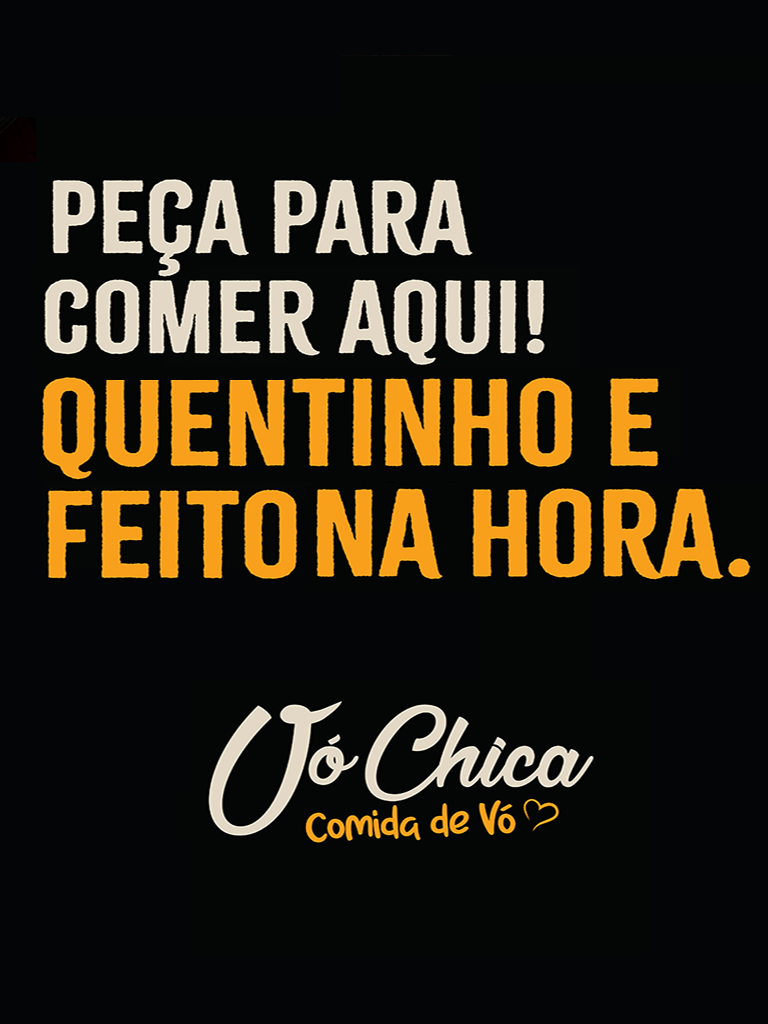
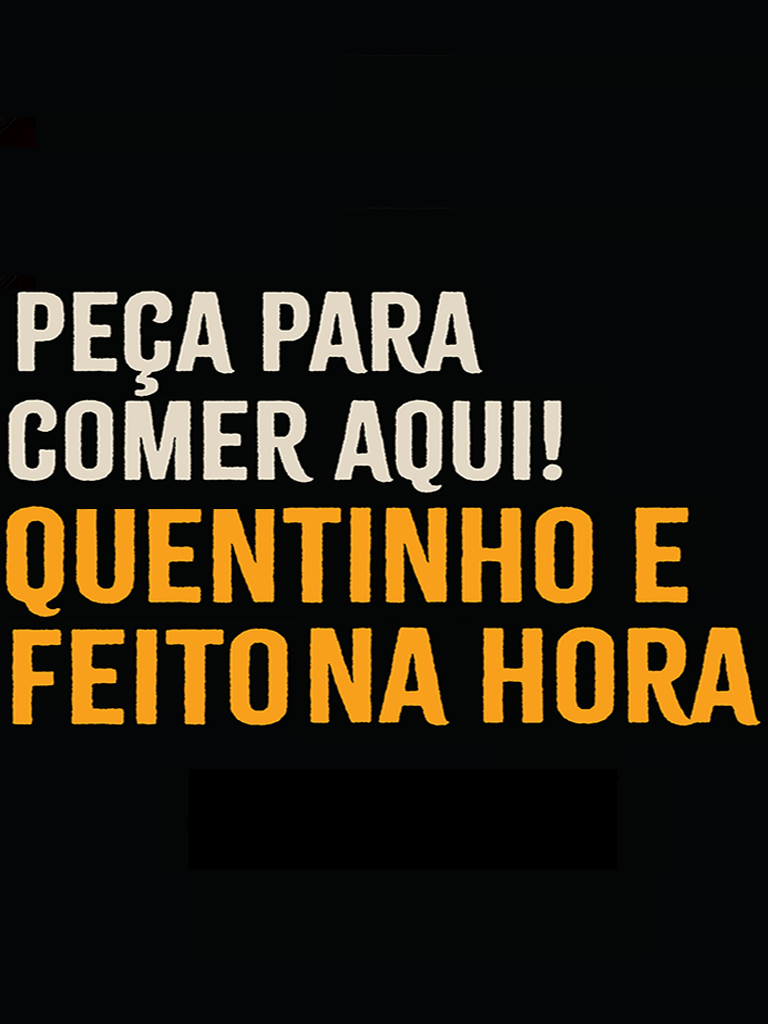
Footer design

Changed region(s): [[0.0, 0.1562, 1.0, 0.8438]]

diff --git a/style.css b/style.css
@@ -62,7 +62,7 @@ nav ul li a {
 }
 
 nav ul li a:hover {
-    color: #ffffff;
+    color: #e2d8c5;
 }
 
 nav ul li a::after {
@@ -127,7 +127,7 @@ nav.show ul.grid {
 }
 .toggle:hover {
     transition: 0.1s;
-	color:#ffffff;
+	color:#e2d8c5;
 }
 
 nav .icon-close {
@@ -150,15 +150,16 @@ h1 {
 }
 
 #home {
+    margin-top: -4rem;
     border-bottom: 1px solid #e1e1e1;
     border-radius: 1px;
     overflow: hidden;
-    background-image: url("img/banner1_pc.png");
-    background-color: #cccccc;
+    background-image: url("img/banner14.png");
+    background-color: #000000;
     background-repeat: no-repeat;
 }
 .text {
-    margin-top: 15rem;
+    margin-top: 20rem;
     padding: 0 20px 0 20px;
     visibility: hidden;
     text-align: center;
@@ -187,14 +188,14 @@ h1 {
     align-items: center;
     display: inline-flex;
     background-color: #4d2f29;
-    color: #ffffff;
+    color: #e2d8c5;
     font-size: 1.3rem;
     cursor: pointer;
 }
 .button:hover {
     transition: 0.3s;
-	color:#ffffff;
-    border:2px solid #ffffff;
+	color:#e2d8c5;
+    border:2px solid #e2d8c5;
 }
 .button:active {
 	position: relative;
@@ -207,7 +208,6 @@ h1 {
 
 /* ==== FOOTER ============================== */
 .logo-footer {
-    height: 50px;
     margin-bottom: 1rem;
 }
 footer {
@@ -215,25 +215,26 @@ footer {
     border-width: 0.2rem 0 0 0;
     border-style:solid;
     border-color: #272727a2;
-    background-color: #fdb913;
+    background-color: #000000;
     text-align: center;
 }
 
 h2 {
-    font-size: 1.2rem;
+    color: #fdb913;
+    font-size: 1.4rem;
     margin-bottom: 0.5rem;
 }
 
 
 .footer-nav li a {
-    color: #000000;
+    color: #fdb913;
     -webkit-font-smoothing: auto;
-    font: 800 1.1rem "Open Sans";
+    font: 800 1.4rem "Open Sans";
 }
 
 .footer-nav li a:hover {
-    transition: 0.1s;
-	color:#ffffff;
+    transition: 0.3s;
+	color:#e2d8c5;
 }
 
 .footer-nav li {
@@ -248,7 +249,7 @@ h2 {
 .share {
     justify-content: center;
     padding-top: 1rem;
-    border-top: 2px solid;
+    border-top: 2px solid #e2d8c5;
 }
 
 /* smartphones, portrait iPhone, portrait 480x320 phones (Android) */
@@ -275,7 +276,6 @@ h2 {
 
 
      .logo-footer {
-         height: 90px;
         margin-bottom: 1rem;
     }
 
@@ -318,7 +318,7 @@ h2 {
     }
     #home .text p {
         padding: 0 100px 0 100px;
-        color: #ffffff;
+        color: #e2d8c5;
         font-size: 1.4rem;
         margin-bottom: 2rem;
     }
@@ -330,8 +330,8 @@ h2 {
         align-items: center;
         display: inline-flex;
         background-color: #4d2f29;
-        color: #ffffff;
-        font-size: 2rem;5
+        color: #e2d8c5;
+        font-size: 2rem;
         cursor: pointer;
     }
     
@@ -359,4 +359,59 @@ h2 {
 @media (min-width:1025px) {  }
 
 /* hi-res laptops and desktops */
-@media (min-width:1281px) {  }
+@media (min-width:1281px) { 
+
+    ul.grid {
+        margin-right: 20rem;
+    
+    }
+
+    .second-image img {
+        margin-top: 100px;
+    }
+
+    #header {
+        position: relative;
+        background-color: #0000009a;
+    }
+
+    nav.container {
+        padding: 0 20px 0 20px;
+        max-width: 1800px;
+        margin-left: auto;
+        margin-right: auto;
+    }
+
+    nav .icon-menu {
+        display: none;
+    }
+    nav {
+        justify-content: space-around;
+        position: static;
+    }
+
+    nav .menu {
+        top: 0px;
+        transition: 0.4s;
+        opacity: 1;
+        visibility: visible;
+    }
+
+     nav .menu ul {
+         gap: 5rem;
+         display: flex;
+
+     }
+
+     nav ul li a::after {
+        content: "";
+        width: 0%;
+        height: 3px;
+        background: #e2d8c5;
+        position: absolute;
+        left: 0;
+        bottom: -0.1rem;
+        transition: width 0.3s;
+    } 
+
+ }

diff --git a/index.html b/index.html
@@ -23,10 +23,10 @@
       <a class="logo" href="#"><img src="img/logobranco.png" alt="VoChica" ></a>
       <div class="menu">
         <ul class="grid">
-          <li><a href="#home">Inicio</a></li>
-          <li><a href="https://goo.gl/maps/WoA6wfDSjGREYATZ6">Localização</a></li>
-          <li><a href="https://v-chica.goomer.app/menu">Cardápio</a></li>
-          <li><a href="https://api.whatsapp.com/send?phone=47992283668&text=Olá, tudo bem?">Contato</a></li>
+          <li class="hlist"><a href="#home">Inicio</a></li>
+          <li class="hlist"><a href="https://goo.gl/maps/WoA6wfDSjGREYATZ6">Localização</a></li>
+          <li class="hlist"><a href="https://v-chica.goomer.app/menu">Cardápio</a></li>
+          <li class="hlist"><a href="https://api.whatsapp.com/send?phone=47992283668&text=Olá, tudo bem?">Contato</a></li>
         </ul>
       </div>
       <div class="toggle icon-menu"></div>
@@ -66,7 +66,7 @@
 <!-- FOOTER CONTENT-->
     <footer class="footer" id="footer">
       <div class="logo-footer">
-       <a href="#"><img src="img/LOGO3.png" style="height: 90px;"></a>
+       <a href="#"><img src="img/logobrancoatt.png" style="height: 90px;"></a>
       </div>
       <div class="container grid">
         <ul class="footer-nav">

diff --git a/main.js b/main.js
@@ -24,14 +24,7 @@ const scrollReveal = ScrollReveal({
     reset: true
 })
 
-scrollReveal.reveal('#home .text')
-
-const scrollRevealToggle = ScrollReveal({
-    duration: 1000,
-    reset: false
-})
-
-scrollRevealToggle.reveal('.toggle, .logo')
+scrollReveal.reveal('#home .text, .toggle, .logo')
 
 
 
